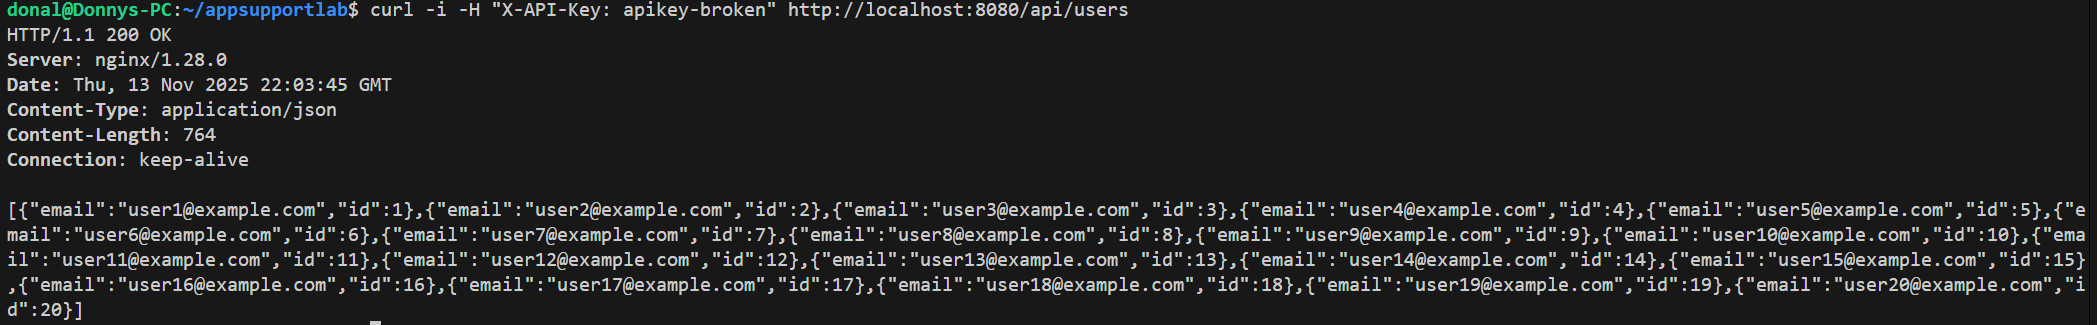
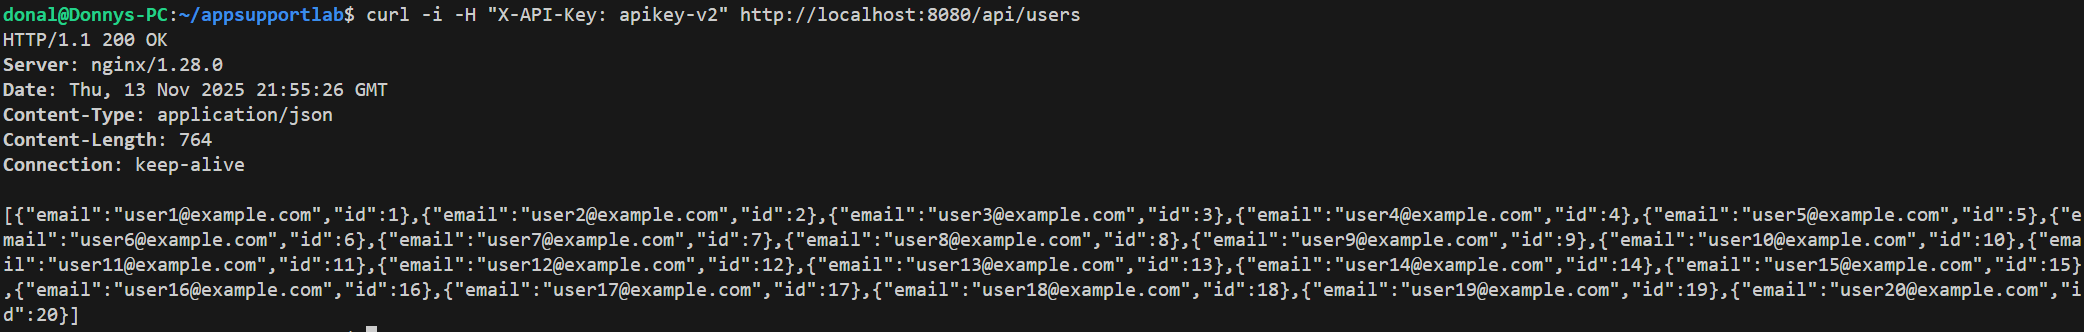
updating auth-apikey-outage project with more accurate captions and screenshots

Changed region(s): [[0.0, 0.6154, 1.0, 0.9846], [0.0, 0.0, 0.5302, 0.3692], [0.0, 0.4, 0.1248, 0.5231]]

diff --git a/portfolio_webpage/app/projects/ase-projects/auth-apikey-outage/page.tsx b/portfolio_webpage/app/projects/ase-projects/auth-apikey-outage/page.tsx
@@ -89,7 +89,7 @@ export default function AuthApiKeyOutagePage() {
               <span className="italic">auth successes/sec</span>.
             </li>
             <li>
-              Baseline: valid key (<code>apikey-v1</code>) → 200s on{" "}
+              Baseline: valid key (<code>apikey-v2</code>) → 200s on{" "}
               <code>/api/users</code>, successes increment, failures stay 0.
             </li>
             <li>
@@ -138,7 +138,7 @@ export default function AuthApiKeyOutagePage() {
             <p className="text-sm text-muted-foreground mb-6">
               First I confirmed the lab stack was healthy and that auth behaved
               correctly with a known-good key. Requests to{" "}
-              <code>/api/users</code> with <code>apikey-v1</code> returned 200
+              <code>/api/users</code> with <code>apikey-v2</code> returned 200
               OK, <code>/health</code> was green, and the <code>/metrics</code>{" "}
               endpoint showed auth successes increasing with failures still at
               0. This gave me a clean baseline for both the API and the
@@ -167,10 +167,10 @@ export default function AuthApiKeyOutagePage() {
                 alt="Terminal showing app_auth_success_total incrementing and failures at zero"
                 caption={
                   <>
-                    Metrics baseline: hitting <code>/metrics</code> and grepping
-                    for <code>app_auth_*</code> shows{" "}
-                    <code>app_auth_success_total</code> increasing while{" "}
-                    <code>app_auth_failures_total</code> remains 0.
+                    Baseline auth: calling <code>/api/users</code> with{" "}
+                    <code>X-API-Key: apikey-v1</code> returns{" "}
+                    <code>200 OK</code> and the JSON list of users. This proves
+                    the original key works end-to-end before we rotate anything.
                   </>
                 }
                 onClick={() =>
@@ -207,7 +207,7 @@ export default function AuthApiKeyOutagePage() {
             <p className="text-sm text-muted-foreground mb-6">
               To simulate a real-world auth break, I rotated the app&apos;s
               expected API key in <code>docker-compose.yml</code> to a new value
-              (for example <code>apikey-broken</code>) and rebuilt only the app
+              (for example <code>apikey-v2</code>) and rebuilt only the app
               container. The caller still used the original{" "}
               <code>apikey-v1</code> header, so the app started rejecting every
               request with 401 Unauthorized.
@@ -362,7 +362,7 @@ curl -i -H "X-API-Key: apikey-v1" http://localhost:8080/api/users
 curl -s http://localhost:8080/metrics | grep app_auth_
 
 # Introduce auth outage (rotate app key only)
-# 1) Edit docker-compose.yml -> APP_API_KEY=apikey-broken
+# 1) Edit docker-compose.yml -> APP_API_KEY=apikey-v2
 # 2) Redeploy app container:
 docker compose up -d --build app
 
